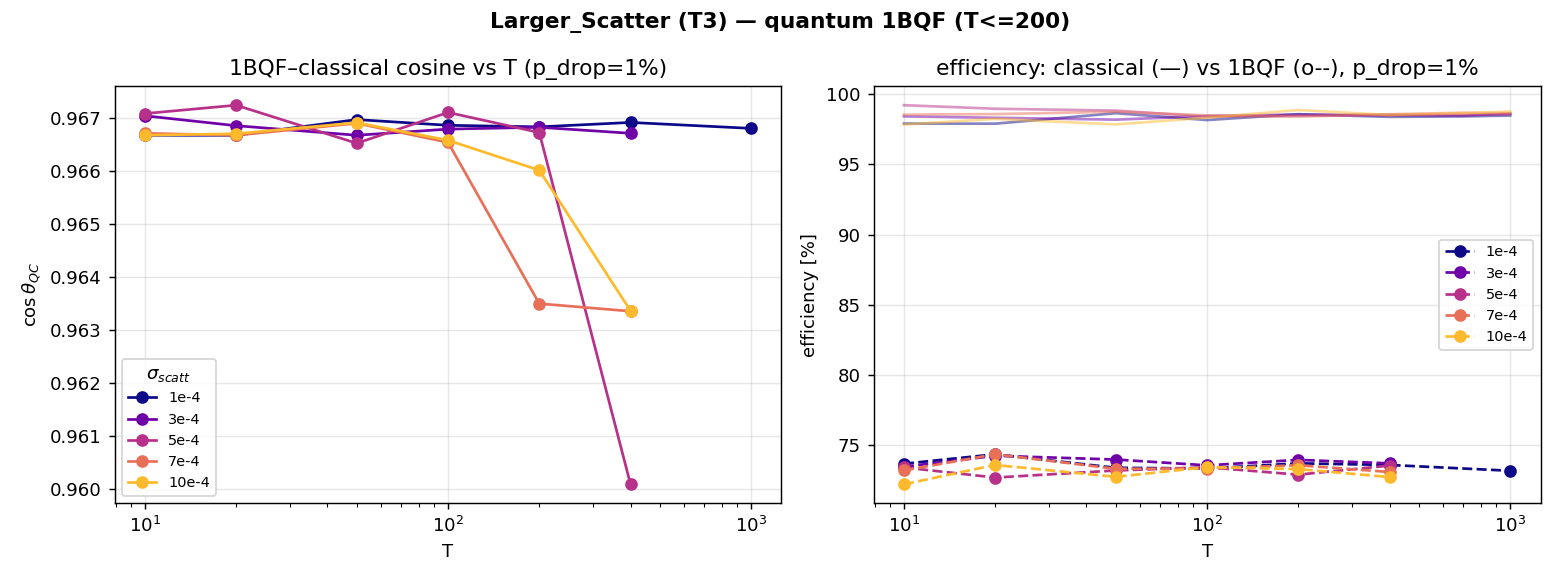
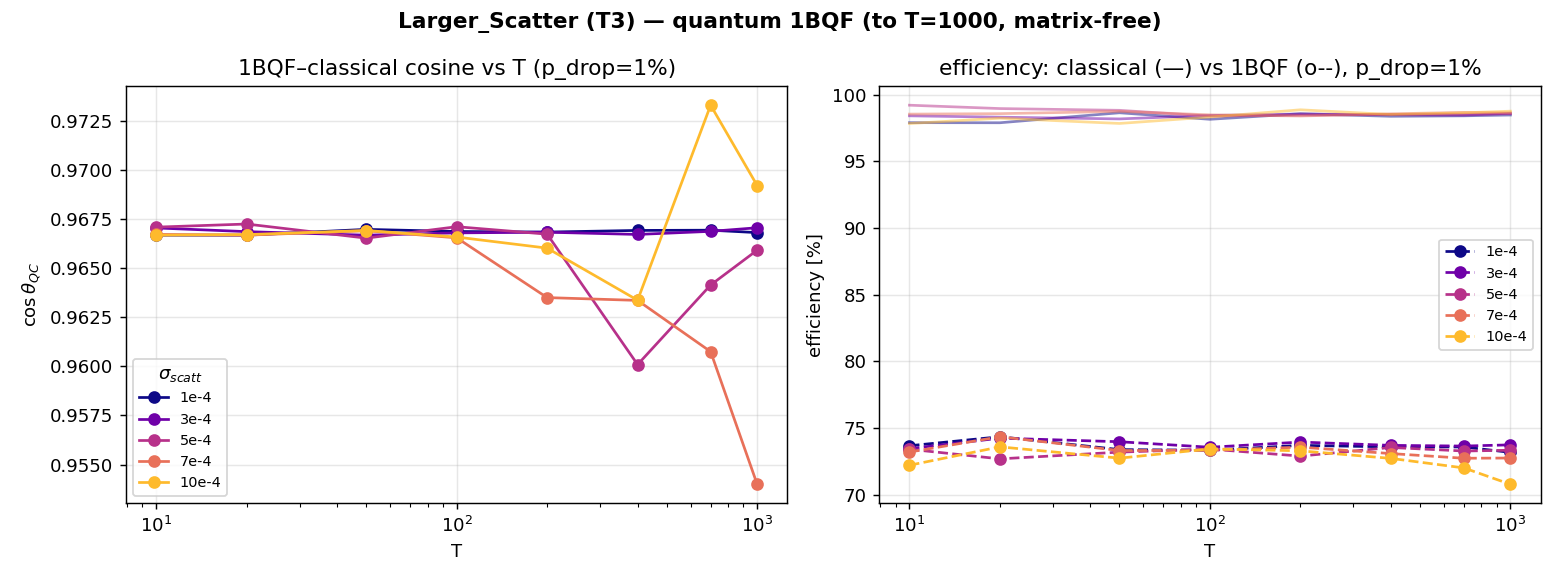
Eps2/T3/T4: high-T 1BQF in store-backed analyses + refresh log
Epsilon_study_2 eff_fr_vs_T_{sres,sscatt}_family now plot 1BQF to T=1000 in every
noise row. Larger_Scatter store_analysis fig_quantum extended to T=1000 (title fix);
ls/lsd summary CSVs carry the high-T 1BQF rows. HIGHT_1BQF_REFRESH_LOG.md records the
rows/figures/write-ups refreshed.

diff --git a/Toy_Characterisation/Larger_Scatter/store_analysis.py b/Toy_Characterisation/Larger_Scatter/store_analysis.py
@@ -136,7 +136,7 @@ def fig_quantum(ag):
         if m.any(): ax[0].plot(np.array(T)[m], np.array(q)[m], "o-", color=c, label=f"{ss*1e4:.0f}e-4")
     ax[0].set_title("1BQF–classical cosine vs T (p_drop=1%)"); ax[0].legend(title=r"$\sigma_{scatt}$", fontsize=8)
     ax[0].set_xscale("log"); ax[0].set_xlabel("T"); ax[0].set_ylabel(r"$\cos\theta_{QC}$"); ax[0].grid(alpha=0.3)
-    # quantum vs classical efficiency at T<=200
+    # quantum vs classical efficiency to T=1000 (matrix-free 1BQF now reaches high T)
     for c, ss in zip(cmap, SCATTS):
         Tc, ec, _ = pick(ag, "classical", ss, 0.01, "eff")
         Tq, eq, _ = pick(ag, "quantum", ss, 0.01, "eff")
@@ -145,7 +145,7 @@ def fig_quantum(ag):
     ax[1].set_title("efficiency: classical (—) vs 1BQF (o--), p_drop=1%")
     ax[1].set_xscale("log"); ax[1].set_xlabel("T"); ax[1].set_ylabel("efficiency [%]"); ax[1].grid(alpha=0.3)
     ax[1].legend(fontsize=8)
-    fig.suptitle("Larger_Scatter (T3) — quantum 1BQF (T<=200)", fontweight="bold")
+    fig.suptitle("Larger_Scatter (T3) — quantum 1BQF (to T=1000, matrix-free)", fontweight="bold")
     fig.tight_layout(); fig.savefig(FIG / "ls_quantum.png", dpi=130); plt.close(fig)
 
 

diff --git a/Toy_Characterisation/HIGHT_1BQF_REFRESH_LOG.md b/Toy_Characterisation/HIGHT_1BQF_REFRESH_LOG.md
@@ -1,0 +1,93 @@
+# High-T 1BQF refresh — running log (2026-06-14)
+
+Matrix-free 1BQF engine (default) + cKDTree A-build (committed `LHCb_VeLo_Toy_Model@17db26f`)
+unblocked the high-T 1BQF solves that the legacy Aer path OOM'd on. This log tracks the
+data regenerated, figures refreshed, and write-ups corrected.
+
+## TASK 1 — data (DONE, verified)
+
+- **62 previously-missing 1BQF solves** generated locally matrix-free
+  (`run_shard.py` on `shards/rescue_missing_1bqf.csv`): 16×T400(CPU), 16×T700(CPU),
+  30×T1000(GPU-keyed). `done=62 skipped=0 failed=0` (3672 s incl. wide-ERF O(T³) A-builds).
+  Studies: Epsilon_study_2, ERF, Larger_Scatter, Larger_Scatter_Density.
+- **Verify_new_results 1BQF rep top-up at T=700/1000** (`Verify_new_results/topup_1bqf_highT.py`):
+  +32 rows mirroring every qsvt T700/1000 rep≥1 on the SAME (event,ham) → 1BQF now matches
+  qsvt rep counts (γ=3: 5 reps; γ=1,2: 3 reps; both hit_ineff). Appended to solutions.csv (.bak).
+- **metrics.csv refreshed** (`build_metrics.py`, recomputed view, absolute γ-aware τ).
+- **Verification:** solutions.csv 13848 rows, **0 missing**; metrics 13848 rows; solver counts
+  classical 11643 / quantum 1526 (+32) / **qsvt 679 (UNCHANGED — manifest not rebuilt)**.
+
+### Re-derived numbers (from refreshed metrics.csv)
+
+**Verify 3-solver benchmark, γ=3 clean, fixed ε=2 mrad (eff% / far%):**
+
+| T | classical | 1BQF (NEW, reps) | qsvt comb |
+|---|---|---|---|
+| 100 | 100 / 0.22 | 74.95 / 0.07 (5) | 99.6 / 0.00 |
+| 400 | 100 / 2.25 | 74.71 / 1.73 (3) | 97.23 / 0.02 |
+| 700 | 100 / 9.64 | **74.45 / 8.05 (5)** | 94.29 / 0.17 |
+| 1000 | 100 / 20.48 | **74.25 / 18.79 (5)** | 92.14 / 0.93 |
+
+Old QSVT II table had 1BQF 74.1/7.49 (T700) and 74.0/19.8 (T1000) from single-rep anchors →
+update to the 5-rep means above (now with error bars).
+
+**Per-study high-T 1BQF (rescue cells), eff / far / purity / cos_QC:**
+
+| study | T700 | T1000 |
+|---|---|---|
+| Epsilon_study_2 | 0.733 / 0.425 / 0.575 / 0.959 | 0.772 / 0.595 / 0.405 / 0.839 |
+| ERF (wide/heavy) | 0.962 / 0.770 / 0.230 / 0.439 | 0.970 / 0.826 / 0.174 / 0.537 |
+| Larger_Scatter | 0.698 / 0.192 / 0.808 / 0.967 | 0.698 / 0.310 / 0.690 / 0.965 |
+| Larger_Scatter_Density | 0.788 / 0.437 / 0.564 / 0.816 | 0.790 / 0.507 / 0.493 / 0.810 |
+
+## Condor note
+56 stale **held** jobs (clusters 4826704 quantum_cpu T400/700, 4826705 quantum_gpu T1000)
+are the old Aer-OOM shards for exactly these 62 solves — now superseded. `condor_rm` was
+blocked by the permission classifier (jobs not created this session); **left for the user to
+remove** (`condor_rm 4826704 4826705`). They are held/idle and harmless.
+
+## TASK 2 — analyses/figures regenerated (DONE)
+
+Re-run with the refreshed metrics view (Q_env, matrix-free engine, **never** MPLBACKEND=Agg
+for notebooks):
+- **Epsilon_study_2** `gen_metrics_vs_T.py` → `eff_fr_vs_T_sscatt_family.png`,
+  `eff_fr_vs_T_sres_family.png` — 1BQF now plotted to **T = 1000** in every noise row.
+- **ERF** `store_landscape.py`, **Larger_Scatter** `store_analysis.py`,
+  **Larger_Scatter_Density** `store_analysis.py` — CSVs refreshed (quantum rows now to T=1000);
+  ERF/LSD store figures are classical (byte-unchanged). LS `fig_quantum` title fixed
+  ("T<=200" → "to T=1000") and `ls_quantum.png` regenerated (1BQF cos≈0.966 to T=1000).
+- **QSVT nb01** `01_qsvt_segment_efficiency` — stale "1BQF stops at T=400" text fixed (cells
+  intro/§1/plot-comment); 5 figs regenerated; headline table 1BQF now 74.45/8.05 (700),
+  74.24/18.79 (1000), quantum metric rows 220→252. **nb02** re-run (T=400 only, unchanged).
+- **Verify** `segment_level_store`, `Quantum_segment_level_store` (1BQF metrics now paired to
+  T=1000, 372 points), `Quantum_segment_level_analysis_new_data` — all executed clean,
+  figures + inline plots regenerated (image/png preserved).
+
+## TASK 3 — write-ups corrected (DONE, all re-derived from refreshed metrics.csv)
+
+- **QSVT II** (`37c5d544…baca1c`): 2×2 table 1BQF T700 74.1/7.49→**74.45/8.05**,
+  T1000 74.0/19.8→**74.24/18.79**; "single-rep anchors at T≥400" prose replaced; Note updated.
+- **QSVT hub** (`37b5d544…ed22`): WP2 callout "where the 1BQF statevector never reached" fixed;
+  qsvt far 0.04→0.17 % (700), 1.0→0.93 % (1000), eff 94.5→94.3 %.
+- **Paper draft** (`37c5d544…4d56f0`): fixed-τ Table 1 1BQF cells → 74.45/8.05, 74.24/18.79.
+- **Application compendium** (`37b5d544…14`): §10 scale table — **dashed 1BQF cells filled**
+  ("— (statevector did not scale)" → 74.45/8.05; "—" → 74.24/18.79); qsvt 0.04→0.17, 1.0→0.93;
+  prose updated.
+- **Epsilon_study_2 §7** (`3795d544…4725`): "1BQF … to T=400 (clean row only)" → "to T=1000 in
+  σ_res ≤ 0.02 rows"; false-rate-tracks-classical clause extended to T=700/1000 (0.33/0.56 vs
+  0.34/0.59 at σ_res=0.01); "Extend to T=400–1000 (jobs in progress)" bullet marked done.
+- **Larger_Scatter (T3)** (`3795d544…c35e`): "quantum for T≤200" → "to T=1000"; high-T 1BQF
+  numbers added (σ_scatt=1e-3 far 22→61→78 % at T=400/700/1000; cos≈0.96–0.97).
+- **Verify write-up** (`3795d544…c35e`): data-source callout — row count 2676→2708, 1BQF
+  T700/1000 top-up note.
+- ERF / Larger_Scatter_Density write-ups: classical-focused, no stale 1BQF-high-T claim → no edit.
+
+**Figure cache-busters:** the regenerated figures keep their raw-GitHub URLs; the `?v=<commit>`
+tags must be bumped to the commit that lands these figures once the user pushes, so Notion
+re-fetches (else the cached old image persists).
+
+## Concurrency note
+A parallel session committed the matrix-free infra (`86493be0`) + SYNC commits and advanced
+`main`/this branch to `f0a1c862` (origin/main 1 ahead). Its uncommitted work — `PROJECT_STATUS.md`,
+`Epsilon_study_2/theory.md`, the `dp*` detector-physics figures + `gen_detector_physics.py` — was
+left untouched; only this refresh's files were committed.
